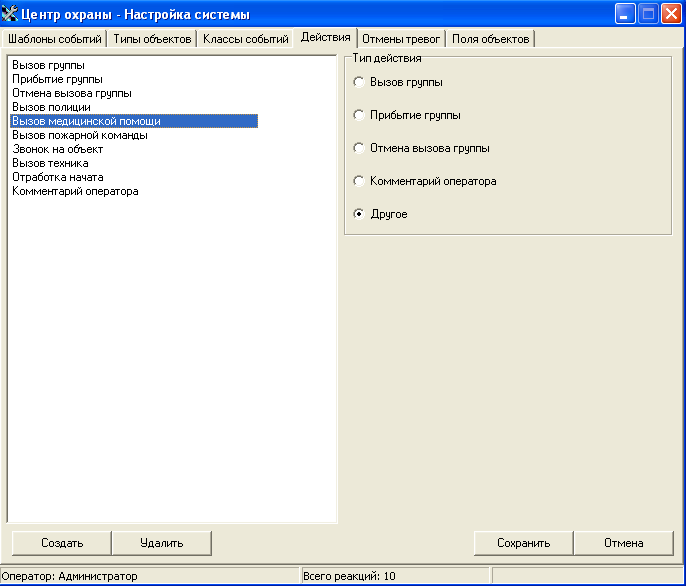
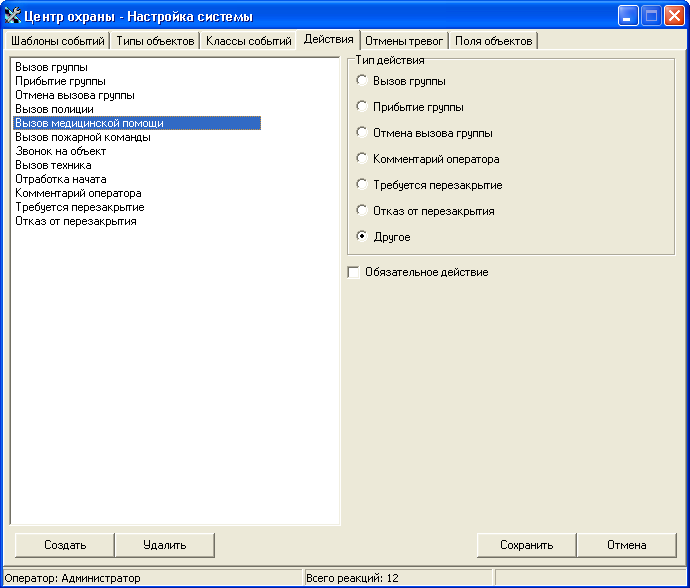
задача 24. перезакрытие и отказ от перезакрытия в модуле настройка системы

diff --git a/russian/06-system-setup.md b/russian/06-system-setup.md
@@ -108,11 +108,11 @@
 
 Вкладка «Действия» предназначена для изменения списка действий, которые оператор может зарегистрировать при отработке тревоги.
 
-Для того, чтобы сохранить изменения, произведенные на этой вкладке, пользователь должен обладать разрешением «Редактировать действия операторов» для модуля «Настройка системы».
+Для того чтобы сохранить изменения, произведенные на этой вкладке, пользователь должен обладать разрешением «Редактировать действия операторов» для модуля «Настройка системы».
 
 В программном обеспечении «Центр охраны» определены следующие типы действий:
 
-* «Вызов группы» — при регистрации действия этого типа оператору необходимо будет указать группу реагирования, которая была вызвана на объект. Если на объект была вызвана группа, то тревогу по объекту можно отменить только после того, как будет зарегистрировано прибытие группы на объект или отмена ее вызова.
+* «Вызов группы» — при регистрации действия этого типа оператору необходимо будет указать группу реагирования, которая была вызвана на объект. Если на объект была вызвана группа, то тревогу по объекту можно отменить только после того, как будет зарегистрировано прибытие группы на объект или отмена ее вызова. Список групп реагирования, используемых «Центром охраны», можно изменить в модуле «Менеджер персонала».
 
 * «Прибытие группы» — действие типа «Прибытие группы» доступно для регистрации только после того, как будет зарегистрирован вызов группы на объект. При регистрации действия с типом «Прибытие группы» оператор должен будет выбрать группу, прибытие которой он фиксирует.
 
@@ -120,10 +120,14 @@
 
 * «Комментарий оператора» — действие этого типа позволяет ввести оператору произвольный текст, связанный с процессом отработки тревоги. Действия этого типа могут быть зарегистрированы на любом этапе отработки тревоги. Рекомендуется включать действие этого типа в списки действий для всех тревог, имеющихся в «Центре охраны».
 
+* «Требуется перезакрытие» - действие этого типа позволяет оператору автоматически информировать ответственных по объекту о необходимости перезакрытия объекта. При регистрации действия данного типа ответственным лицам, для которых в модуле «Менеджер объектов» настроено оповещение о необходимости перезакрытия, рассылается SMS-сообщение. В SMS указывается номер, название и адрес объекта, который нужно вскрыть, осмотреть и повторно сдать под охрану после устранения причин срабатывания тревожной сигнализации.
+
+* «Отказ от перезакрытия» - действие этого типа позволяет оператору автоматически информировать ответственных по объекту об отказе ответственного от перезакрытия. При регистрации действия данного типа оператор должен выбрать в списке ответственных по объекту ответственного, отказавшегося от выезда на перезакрытие. В списке присутствуют только те ответственные, для которых в модуле «Менеджер объектов» настроено оповещение о необходимости перезакрытия. При этом Ф.И.О. ответственного, в отношении которого зарегистрирован отказ от перезакрытия, отображается в поле «Примечание» при записи действия в журнал событий. При регистрации действия данного типа ответственным по объекту лицам, для которых в модуле «Менеджер объектов» настроено оповещение об отказе от перезакрытия, рассылается SMS-сообщение. В SMS указывается Ф.И.О. ответственного, отказавшегося от перезакрытия, а также номер, название и адрес объекта.
+
 * «Другое» — действия типа «Другое» носят информационный характер и используются для быстрой регистрации действий, часто используемых при отработке тревоги (звонок ответственному, вызов милиции и т.д.). Действия этого типа могут быть зарегистрированы на любом этапе отработки тревоги.
 Список действия с типом «Другое» рекомендуется постоянно актуализировать, чтобы они соответствовали тактике охраны, используемой в настоящий момент. Хорошим источником для новых действий с типом «Другое» могут быть регистрируемые комментарии операторов.
 
-Список групп реагирования, используемых «Центром охраны», можно изменить в модуле «Менеджер персонала».
+Действие любого типа можно сделать обязательным для выполнения при отработке тревог. Для этого нужно выбрать действие в списке и отметить галку в чек-боксе «Обязательное действие».
 
 ## Отмены тревог
 
